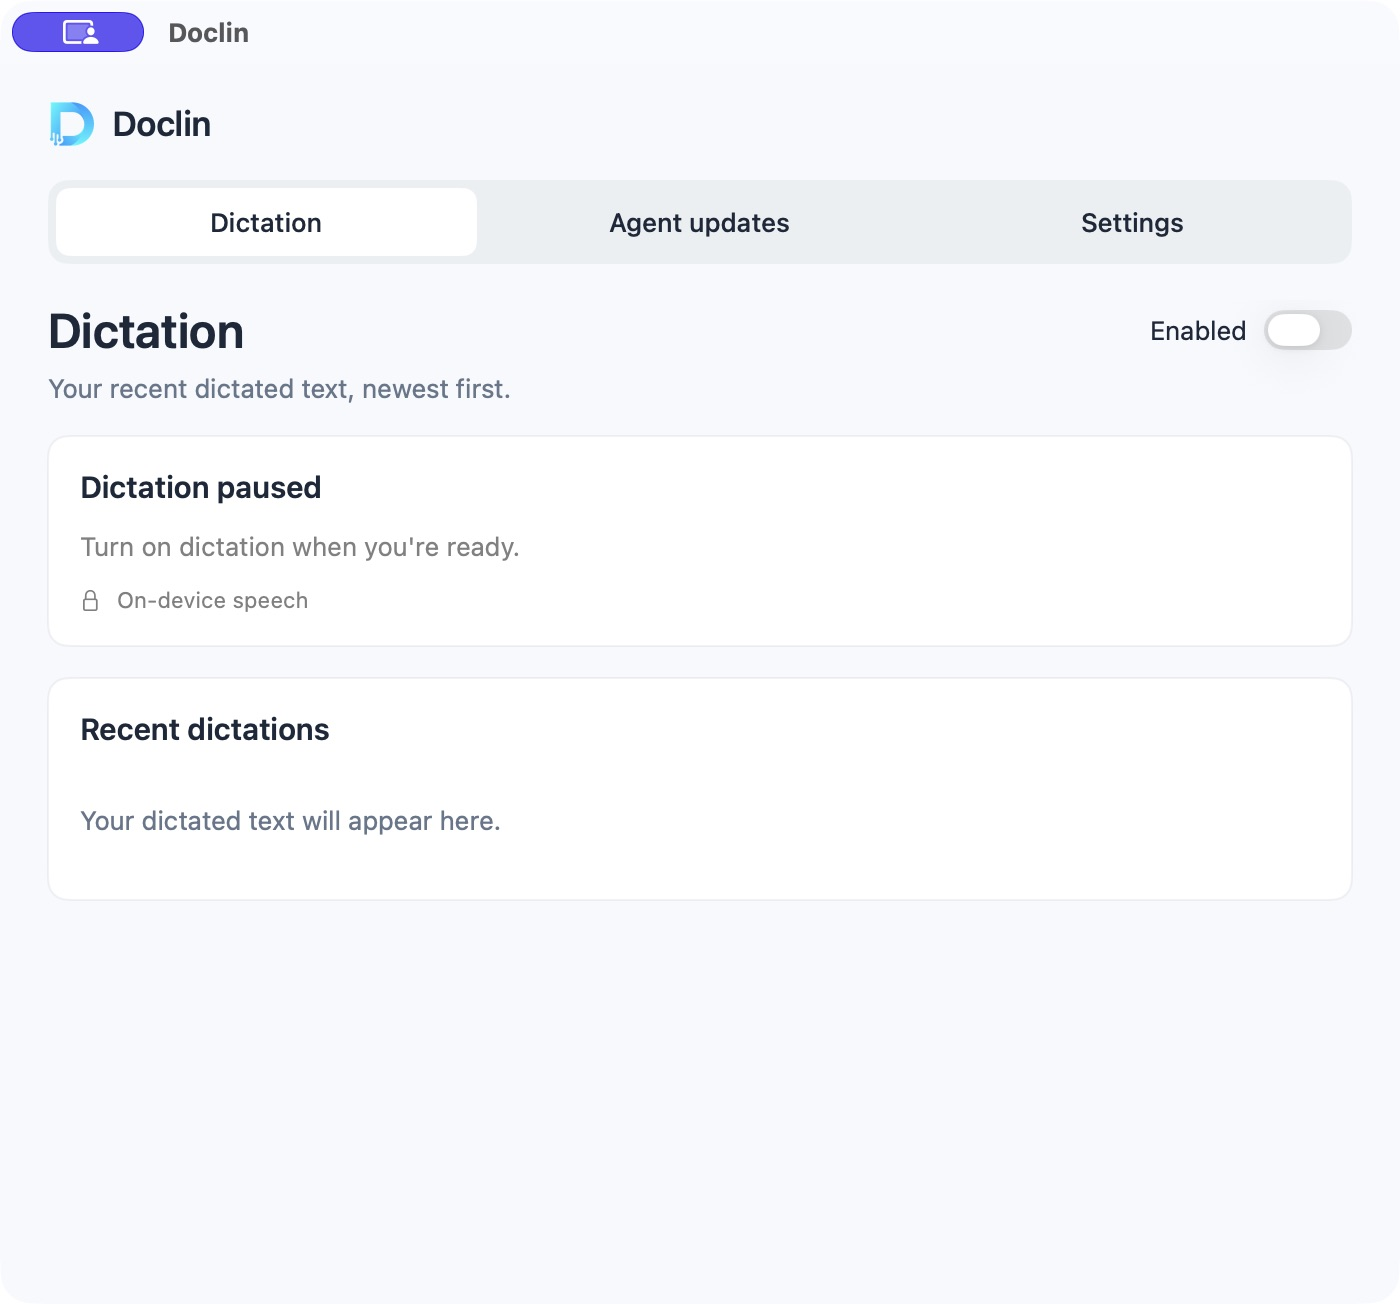
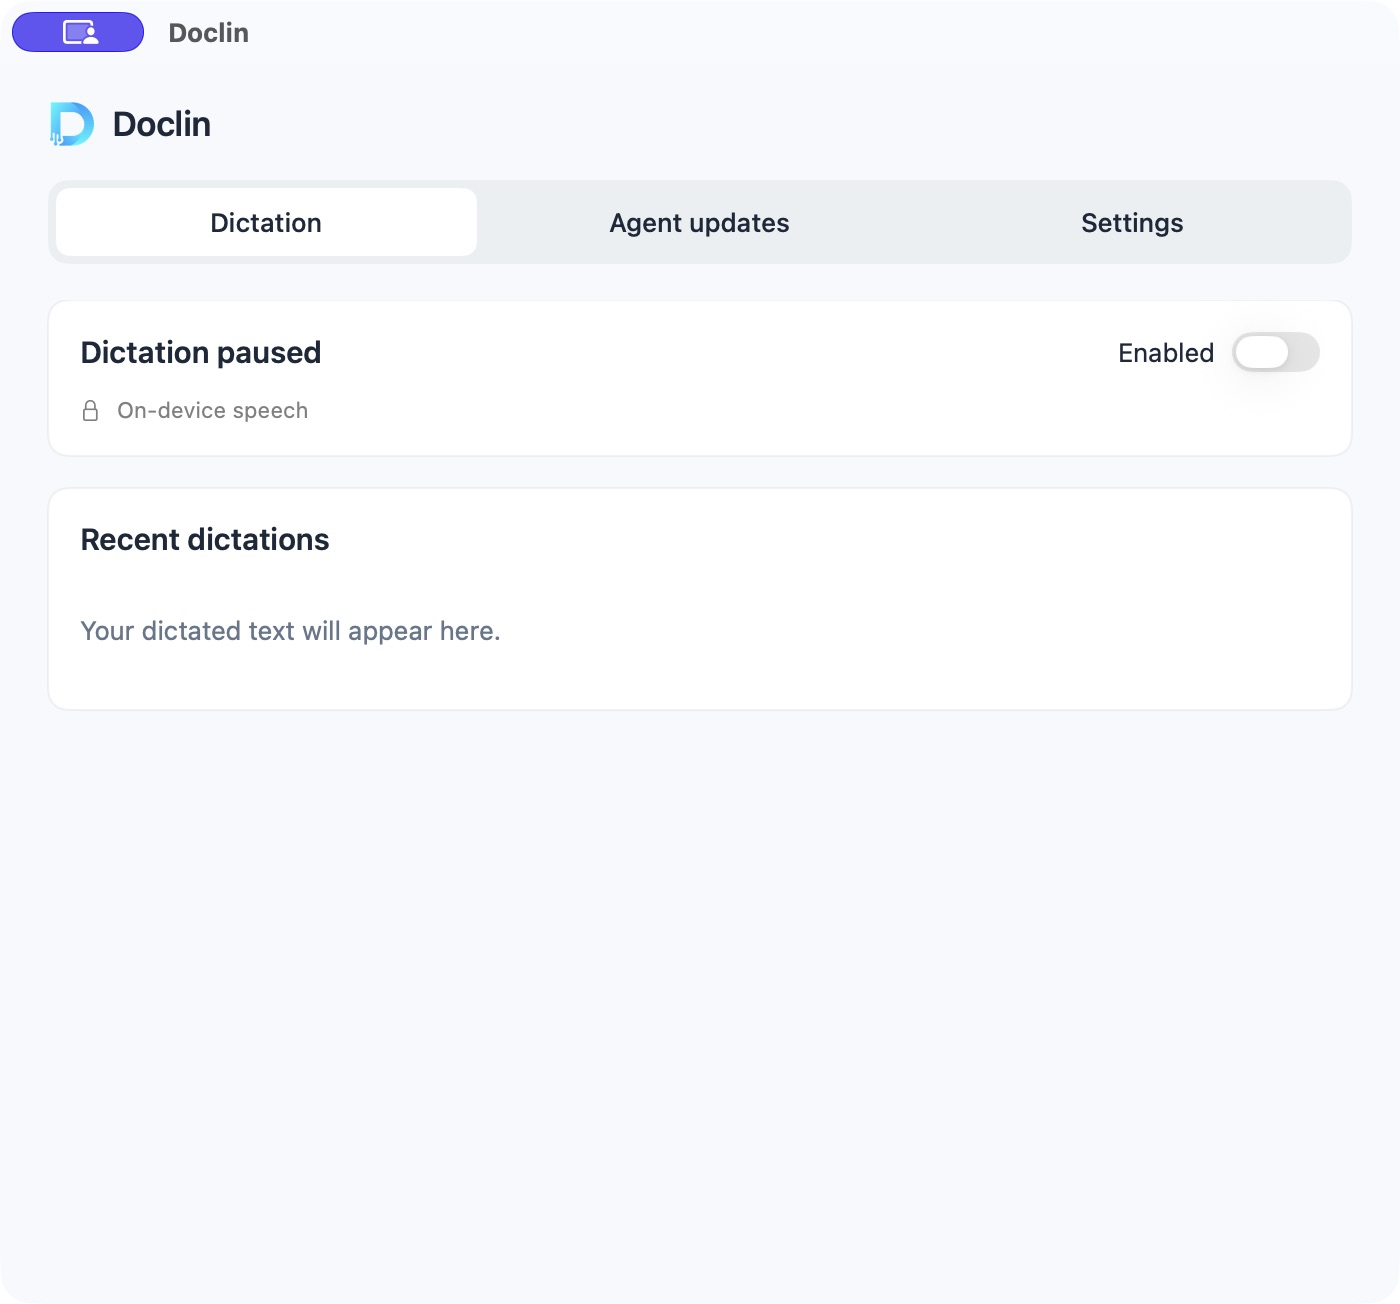
Remove repeated page headings and helper text (#12)
* Remove repeated headings and introductory helper text

* Refresh app screenshots for cleaner pages

---------

diff --git a/Sources/Doclin/Views.swift b/Sources/Doclin/Views.swift
@@ -81,7 +81,6 @@ struct DoclinView: View {
     }
     private var settingsPage: some View {
         VStack(alignment: .leading, spacing: 16) {
-            DoclinPageHeader("Settings", subtitle: "Everything you need to make Doclin yours.")
             HStack(alignment: .top, spacing: 16) {
                 VStack(spacing: 4) {
                     ForEach(settingsDestinations, id: \.2) { item in
@@ -92,8 +91,6 @@ struct DoclinView: View {
                 }.frame(width: 152)
                 ScrollView {
                     VStack(alignment: .leading, spacing: 12) {
-                        Text(settingsDestinations.first(where: { $0.2 == selectedSettingsRoute })?.0 ?? "Voice")
-                            .font(.system(size: 17, weight: .semibold))
                         switch selectedSettingsRoute {
                         case "Dictation settings": DictationSettingsView(controller: model.dictation, model: model)
                         case "Connections": connections
@@ -110,19 +107,15 @@ struct DoclinView: View {
     }
     private var activity: some View {
         VStack(alignment: .leading, spacing: 16) {
-            DoclinPageHeader("Agent updates", subtitle: "Your recent spoken updates, newest first.") {
-                Toggle("Enabled", isOn: Binding(get: { !model.preferences.muted }, set: { enabled in
-                    if model.preferences.muted != !enabled { model.toggleMute() }
-                })).toggleStyle(.switch).controlSize(.small)
-            }
             DoclinCard {
                 HStack {
                     Text(model.preferences.muted ? "Announcements paused" : model.status).font(.system(size: 15, weight: .semibold))
                     Spacer()
+                    Toggle("Enabled", isOn: Binding(get: { !model.preferences.muted }, set: { enabled in
+                        if model.preferences.muted != !enabled { model.toggleMute() }
+                    })).toggleStyle(.switch).controlSize(.small)
                     if model.speaking || model.pendingCount > 0 { Button("Stop") { model.stopAll() } }
                 }
-                Text(model.preferences.muted ? "Turn on announcements when you're ready." : "Hear when your connected agents finish or need attention.")
-                    .font(.system(size: 13)).foregroundColor(mutedInk)
             }
             DoclinHistoryCard(title: "Recent updates", emptyMessage: "New Codex and Claude updates appear here.", isEmpty: model.history.isEmpty, clear: { model.clearHistory() }) {
                 ForEach(model.history) { row in
@@ -245,30 +238,6 @@ struct DoclinButton: ButtonStyle {
 struct DoclinTabButton: ButtonStyle {
     func makeBody(configuration: Configuration) -> some View {
         configuration.label.opacity(configuration.isPressed ? 0.65 : 1).contentShape(Rectangle())
-    }
-}
-// Shared page structure keeps all three tabs aligned without adding navigation.
-struct DoclinPageHeader<Trailing: View>: View {
-    let title: String
-    let subtitle: String
-    let trailing: Trailing
-    init(_ title: String, subtitle: String, @ViewBuilder trailing: () -> Trailing) {
-        self.title = title; self.subtitle = subtitle; self.trailing = trailing()
-    }
-    var body: some View {
-        VStack(alignment: .leading, spacing: 6) {
-            HStack {
-                Text(title).font(.system(size: 24, weight: .semibold))
-                Spacer()
-                trailing
-            }.frame(minHeight: 30)
-            Text(subtitle).font(.system(size: 13)).foregroundColor(mutedInk)
-        }.frame(maxWidth: .infinity, alignment: .leading)
-    }
-}
-extension DoclinPageHeader where Trailing == EmptyView {
-    init(_ title: String, subtitle: String) {
-        self.init(title, subtitle: subtitle) { EmptyView() }
     }
 }
 struct DoclinCard<Content: View>: View {

diff --git a/Sources/Doclin/DictationView.swift b/Sources/Doclin/DictationView.swift
@@ -8,19 +8,15 @@ struct DictationView: View {
     @State private var draft = ""
     var body: some View {
         VStack(alignment: .leading, spacing: 16) {
-            DoclinPageHeader("Dictation", subtitle: "Your recent dictated text, newest first.") {
-                Toggle("Enabled", isOn: Binding(get: { controller.settings.enabled }, set: { controller.settings.enabled = $0; controller.saveSettings() }))
-                    .toggleStyle(.switch).controlSize(.small)
-            }
             DoclinCard {
                 HStack {
                     Text(controller.settings.enabled ? controller.busy ? controller.phase : "Hold \(controller.shortcutLabel) to dictate" : "Dictation paused")
                         .font(.system(size: 15, weight: .semibold))
                     Spacer()
+                    Toggle("Enabled", isOn: Binding(get: { controller.settings.enabled }, set: { controller.settings.enabled = $0; controller.saveSettings() }))
+                        .toggleStyle(.switch).controlSize(.small)
                     if controller.busy { Text("\(controller.seconds)s").font(.system(size: 12)).monospacedDigit() }
                 }
-                Text(controller.settings.enabled ? controller.settings.autoInsert ? "Speak, then release. Your words appear at your cursor." : "Speak, then release. Copy your words from the list below." : "Turn on dictation when you're ready.")
-                    .font(.system(size: 13)).foregroundColor(.secondary)
                 HStack {
                     Label(controller.settings.provider == "local" ? "On-device speech" : "Audio sent to OpenAI", systemImage: controller.settings.provider == "local" ? "lock" : "cloud")
                     if controller.settings.cleanup { Text("· OpenAI text cleanup") }

diff --git a/RELEASE.md b/RELEASE.md
@@ -1,7 +1,7 @@
-# Doclin 0.4.16 — Settings sidebar and aligned rows
+# Doclin 0.4.17 — Cleaner pages
 
-Settings uses a persistent category sidebar instead of accordions, with aligned label/control rows. Dictation, Voice, Agents, General, Cloud, Troubleshooting and Privacy are separate pages; long pages scroll independently of the sidebar.
+Removes repeated tab and sidebar headings and the helper text beneath the main status headings. Enabled toggles remain on the main Dictation and Agent updates pages, next to their status.
 
-The main Dictation and Agent updates pages retain their Enabled toggles. Preference, permission, cloud and connection controls remain in Settings. Existing preferences and paused dictation are preserved.
+Settings opens directly to its aligned rows. Existing preferences, privacy notices and paused dictation are preserved.
 
 Universal macOS 13+ development-signed preview, not Apple notarized.

diff --git a/docs/site/index.md b/docs/site/index.md
@@ -5,7 +5,7 @@ layout: page
 <div class="doclin-home">
   <h1>Dictate text. Hear your agents.</h1>
   <p class="lead">Dictation and spoken coding updates for Mac. Free and local by default.</p>
-  <a class="download" href="https://github.com/shawonibnkamal/doclin-macos/releases/download/v0.4.16/Doclin-0.4.16-mac.zip">Download Doclin for Mac</a>
+  <a class="download" href="https://github.com/shawonibnkamal/doclin-macos/releases/download/v0.4.17/Doclin-0.4.17-mac.zip">Download Doclin for Mac</a>
   <p class="download-note">macOS 13+ · Preview build · Not notarized</p>
   <p class="small-links"><a href="/setup">Installation help</a> · <a href="https://github.com/shawonibnkamal/doclin-macos">Source code</a></p>
   <img class="app-shot" src="/images/doclin-app.png" alt="Recent dictated text in Doclin; options live in Settings" width="1400" height="1304" />

diff --git a/README.md b/README.md
@@ -16,7 +16,7 @@ See [dictation checks and limitations](DICTATION-QUALITY-QA.md).
 
 ## Download for Mac
 
-[Download Doclin 0.4.16](https://github.com/shawonibnkamal/doclin-macos/releases/download/v0.4.16/Doclin-0.4.16-mac.zip).
+[Download Doclin 0.4.17](https://github.com/shawonibnkamal/doclin-macos/releases/download/v0.4.17/Doclin-0.4.17-mac.zip).
 Unzip, move Doclin.app to Applications, and enable dictation on the Dictation page. Allow Microphone
 and Accessibility, then hold Right Command in a text field to speak.
 

diff --git a/docs/site/setup.md b/docs/site/setup.md
@@ -1,6 +1,6 @@
 # Install Doclin
 
-[Download Doclin for Mac](https://github.com/shawonibnkamal/doclin-macos/releases/download/v0.4.16/Doclin-0.4.16-mac.zip).
+[Download Doclin for Mac](https://github.com/shawonibnkamal/doclin-macos/releases/download/v0.4.17/Doclin-0.4.17-mac.zip).
 
 1. Unzip the download and move **Doclin.app** to Applications.
 2. Turn on **Enabled** on the **Dictation** page.
